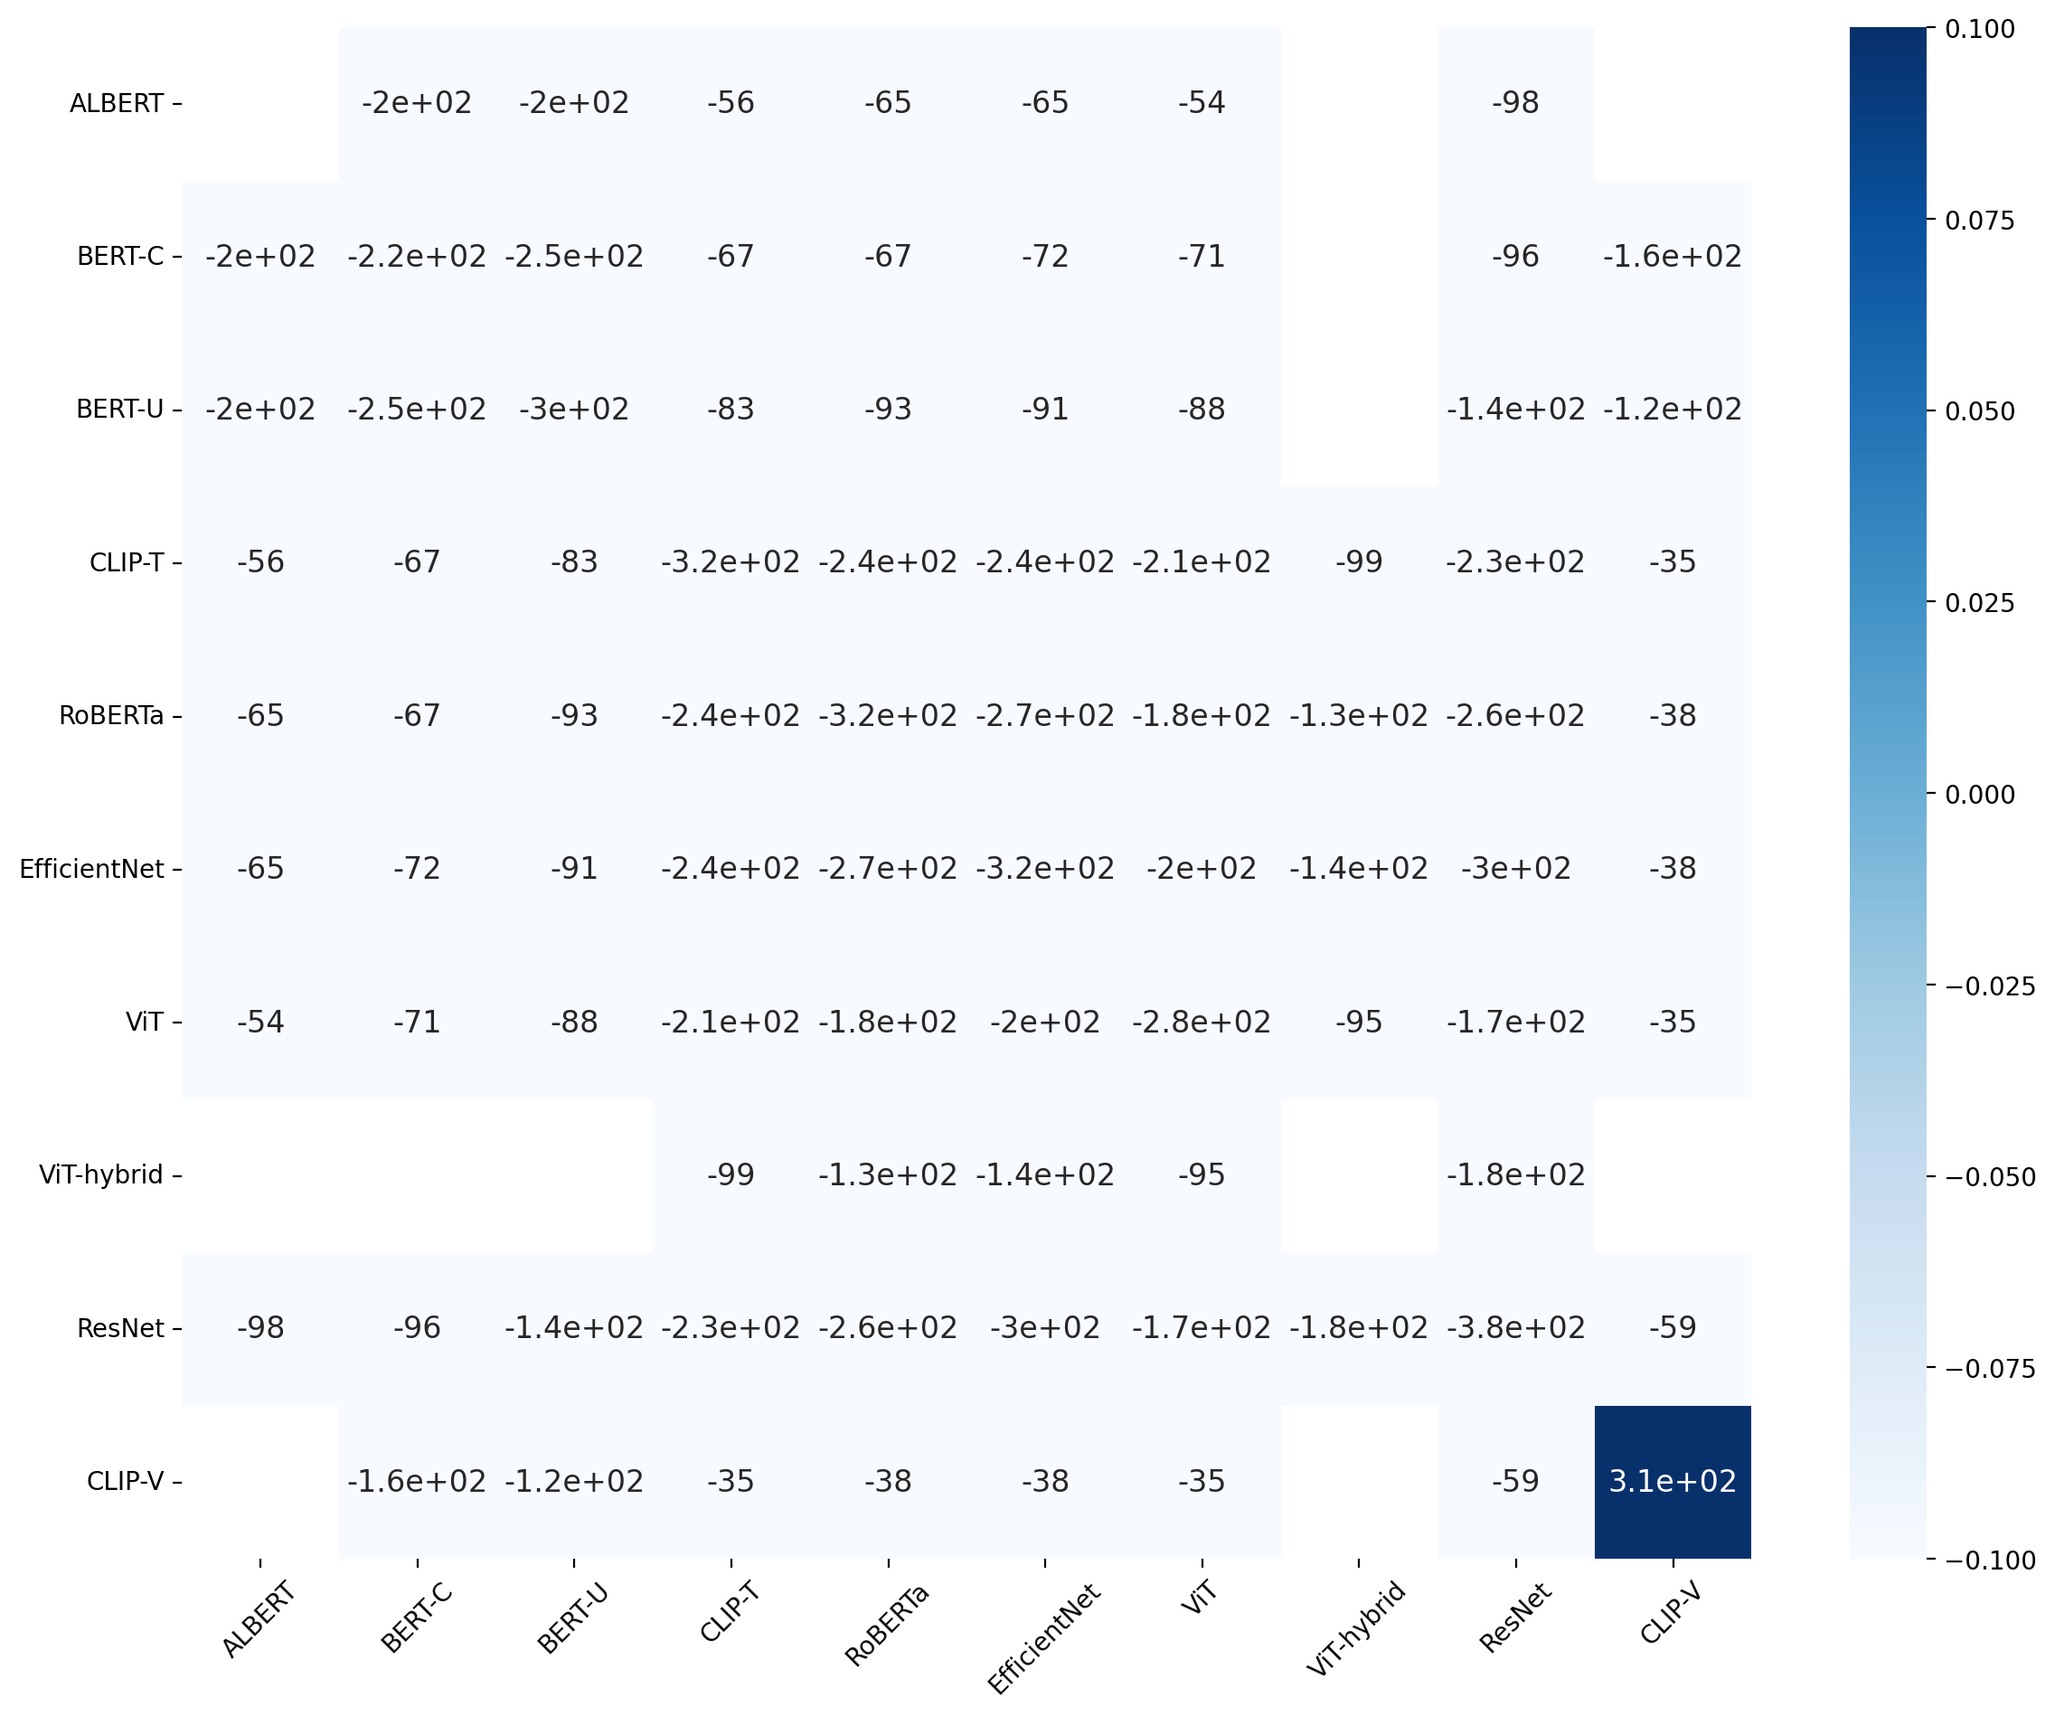
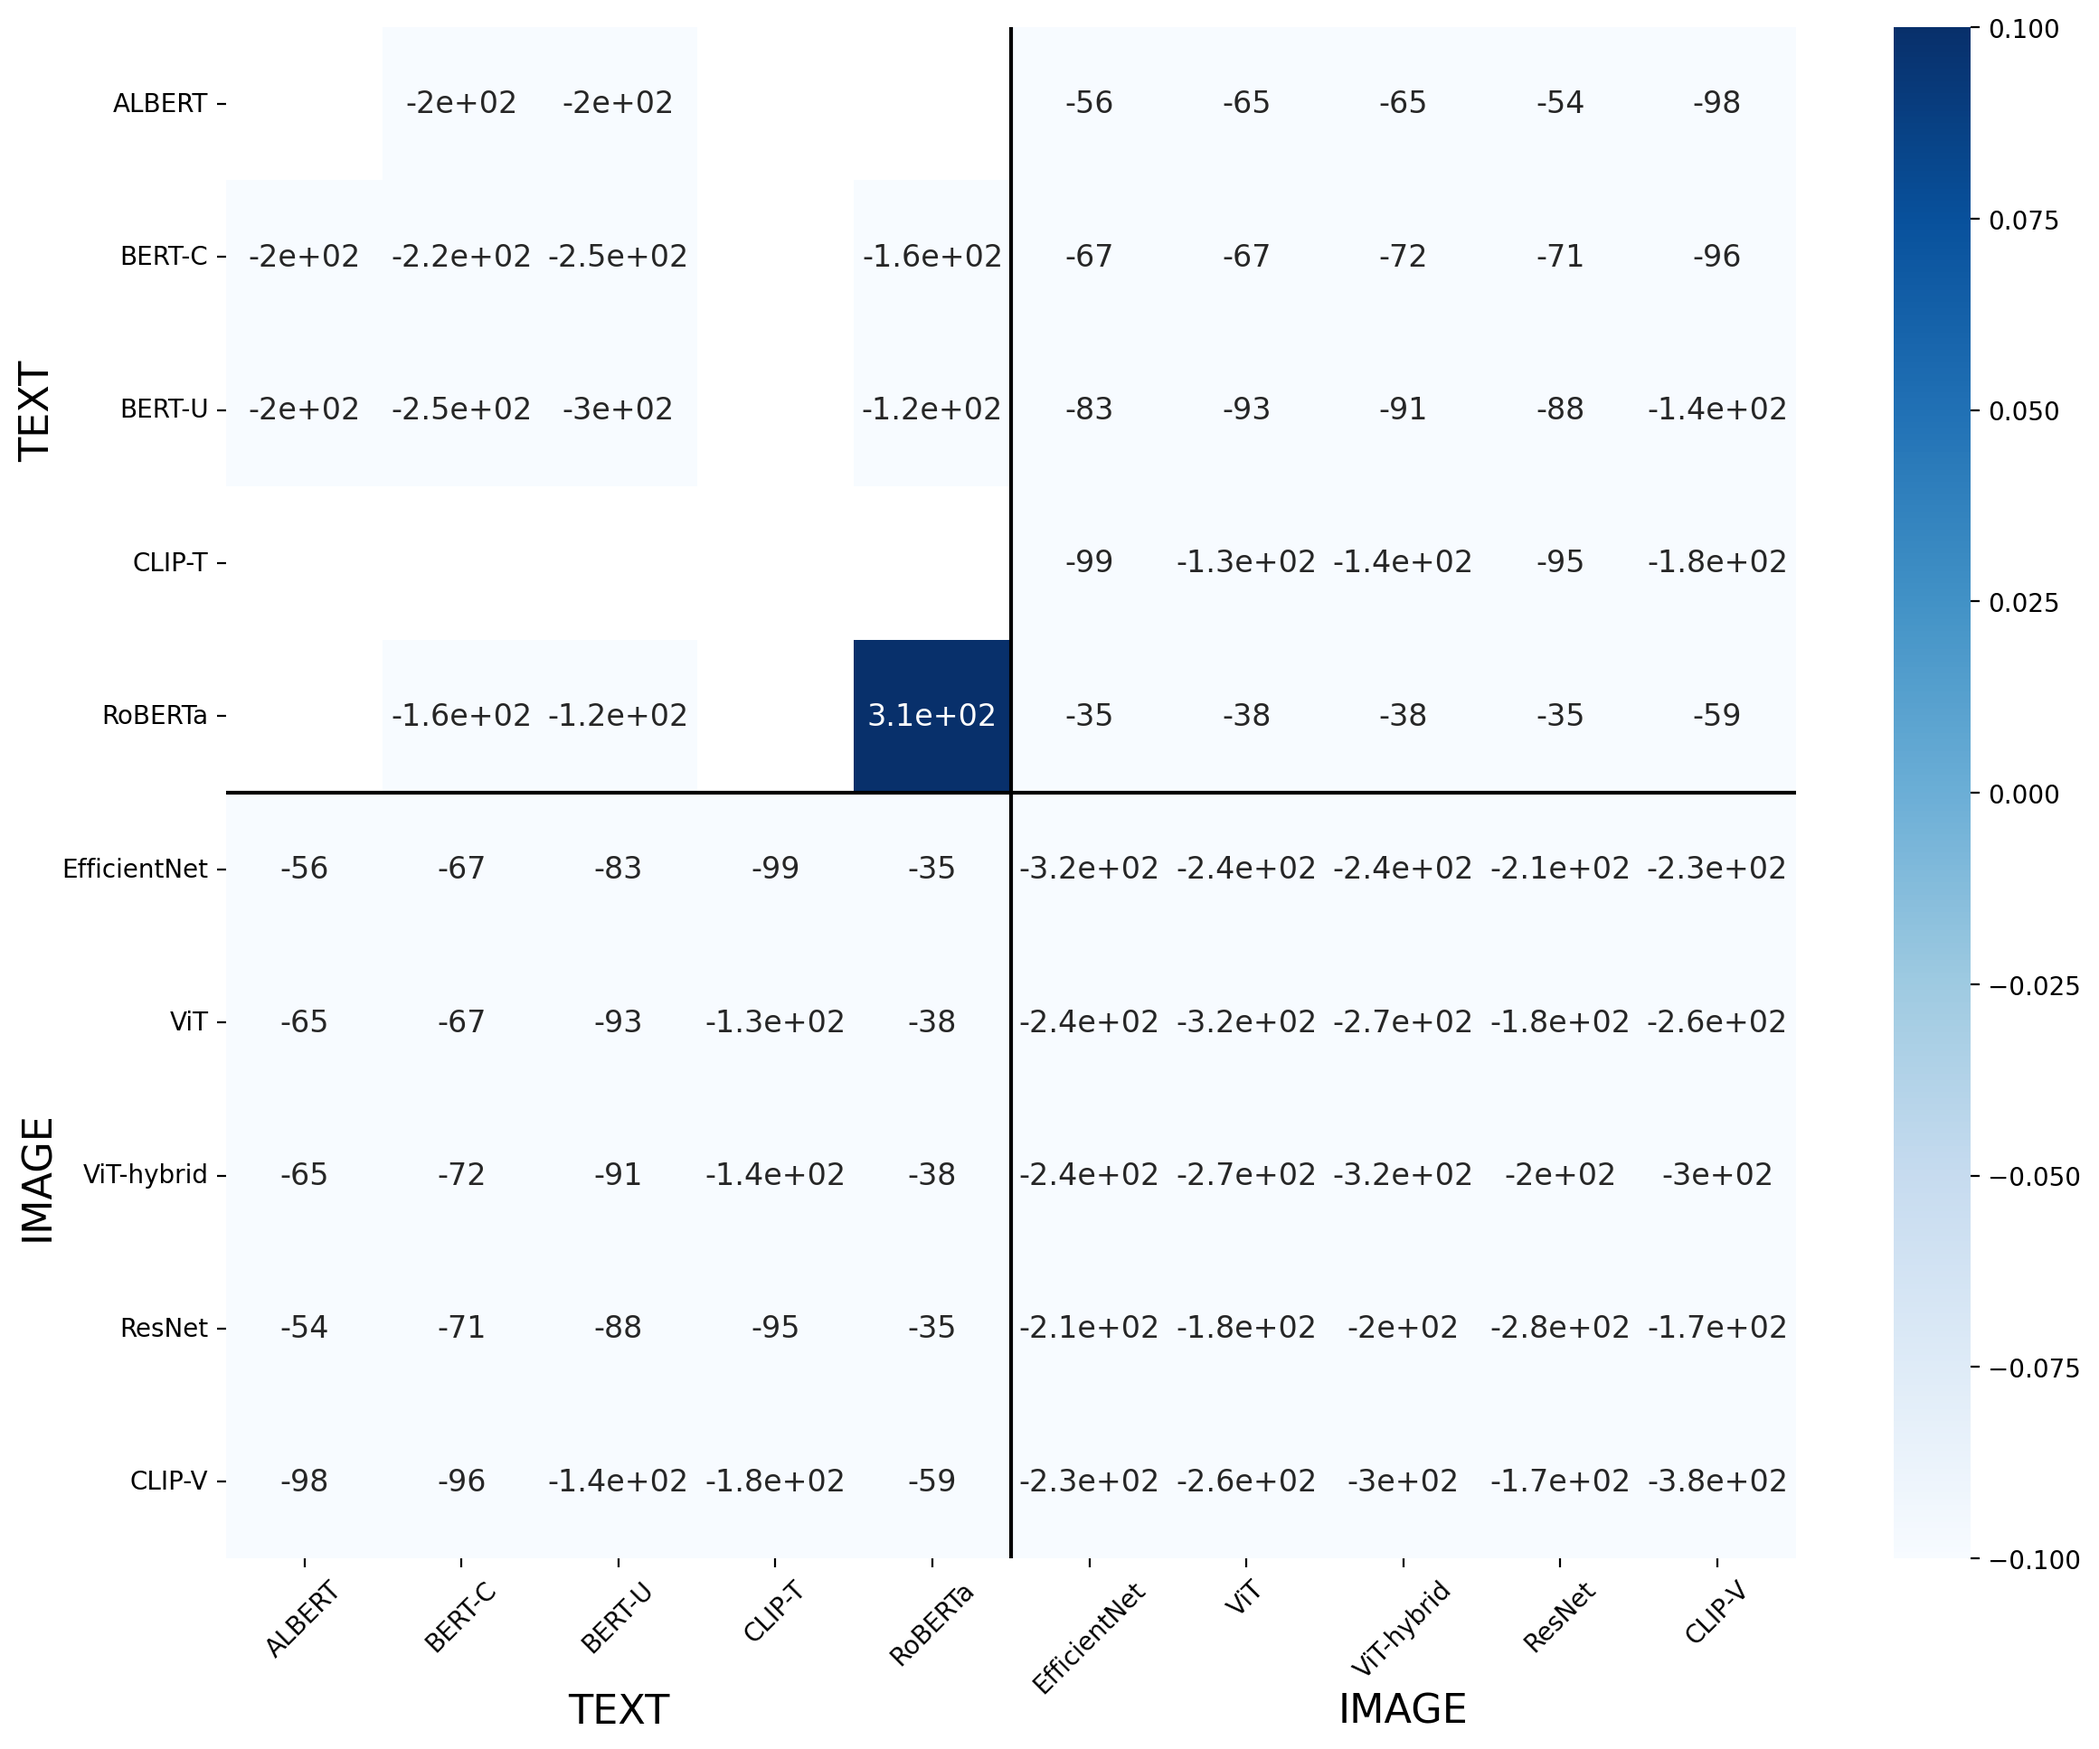
update

diff --git a/plot.py b/plot.py
@@ -73,11 +73,27 @@ results=torch.load(path)
 
 fig, ax = plt.subplots(figsize=(14, 11))
 
-
-sns.heatmap(make_sym(results.numpy()), ax=ax, annot=True, cmap='Blues', annot_kws={"fontsize": 12})
+if args.dataset=='imagenet':
+    sns.heatmap(make_sym(results.numpy()), ax=ax, annot=True, cmap='Blues', annot_kws={"fontsize": 12})
+else:
+    sns.heatmap(make_sym(results.numpy())[idx][:,idx], ax=ax, annot=True, cmap='Blues', annot_kws={"fontsize": 12})
 
 #plt.title('$I_d$ correlation p-value', fontsize=20)
 plt.xticks(ticks=np.arange(0.5, len(model_names)+0.5), labels=model_names, rotation=45)
 plt.yticks(ticks=np.arange(0.5, len(model_names)+0.5), labels=model_names, rotation=0)
+
+if args.dataset!='imagenet':
+   # Add second layer of labels
+    second_layer_labels_x = ['TEXT', 'IMAGE']
+    second_layer_labels_y = ['TEXT', 'IMAGE']
+
+    plt.axhline(len(model_names)/2, color='k', linewidth=1.5)
+    plt.axvline(len(model_names)/2, color='k', linewidth=1.5)
+
+    for i, label in enumerate(second_layer_labels_x):
+        plt.text((len(model_names)/4)*(2*i+1), len(model_names)+1., label, ha='center', va='center', fontsize=16)
+
+    for i, label in enumerate(second_layer_labels_y):
+        plt.text(-1.2, (len(model_names)/4)*(2*i+1), label, ha='center', va='center', rotation=90, fontsize=16)
 
 plt.savefig(path[:-2]+"png", dpi=200, bbox_inches='tight')
